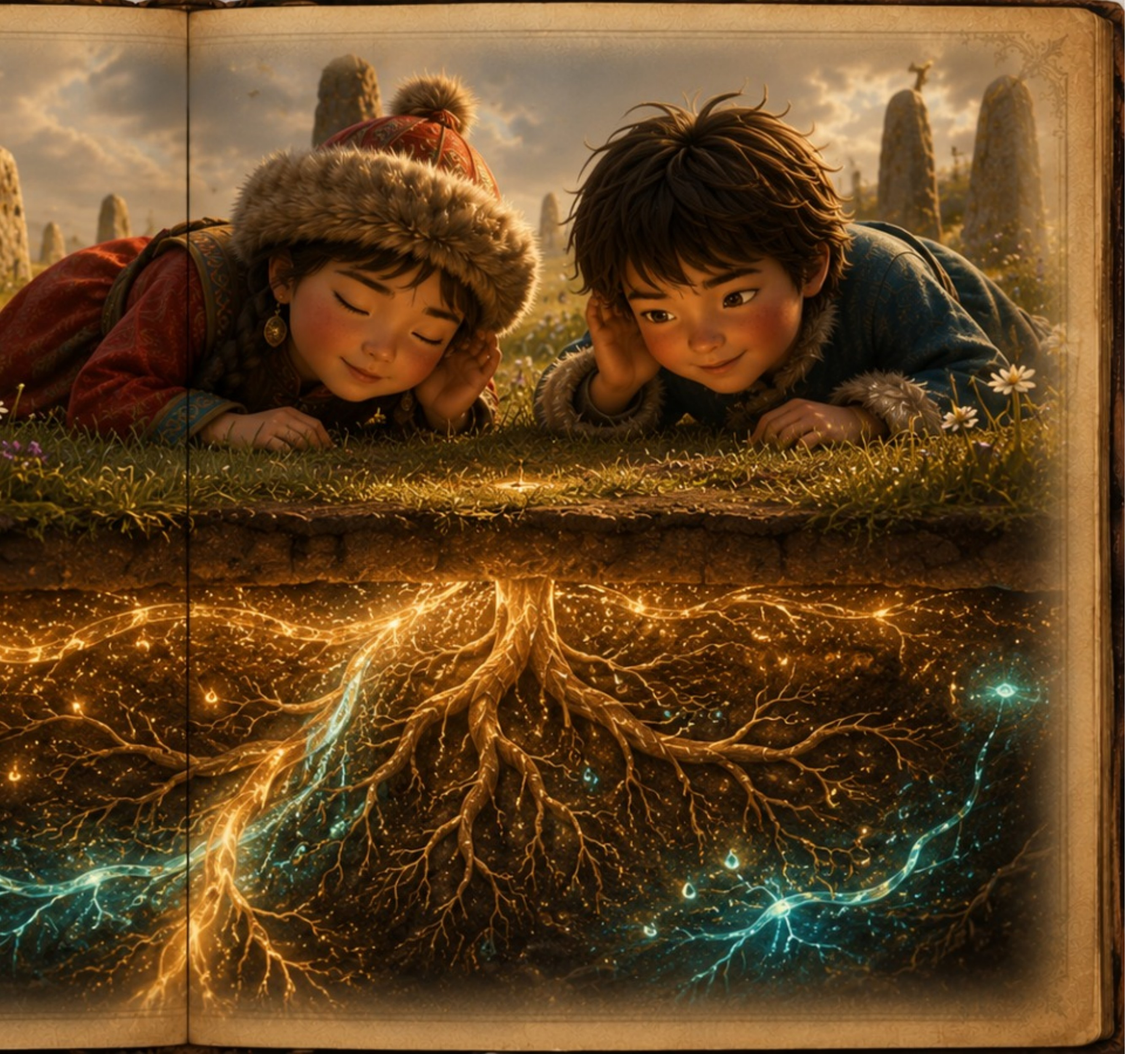
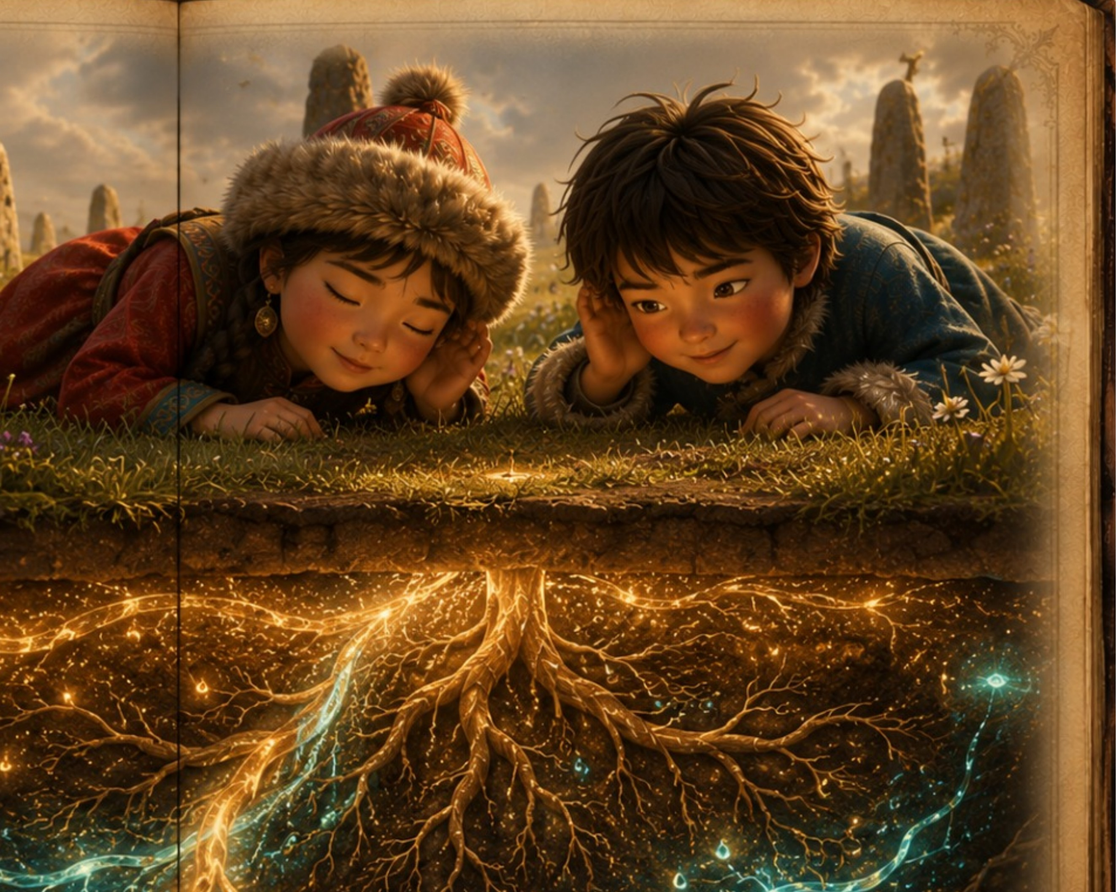
Fix storybook framing so character faces are never cropped or covered
The previous crop left illustrations portrait-shaped, so objectFit:"cover"
sliced away large vertical bands and pushed the framing right onto the
children's faces.

- New StorybookPage component shows the whole illustration (objectFit
  contain) over a blurred, darkened copy of itself filling the 16:9 sides,
  so nothing is ever cut off.
- Re-cropped pages to remove only the printed-text panel, trimming to a
  ~1.25 aspect that keeps full figures instead of a tight 16:9 slice.
- Reserved a caption safe-area beneath the illustration, and made
  AnimatedCaptions' bottom offset configurable (default preserves the
  existing vertical videos exactly) so captions sit below the artwork
  instead of over the characters' faces.
- Softened the Ken Burns drift for this project (max 4% scale) to suit the
  slower storybook pacing.

diff --git a/src/bozkirin-uyanisi/components/StorybookPage.tsx b/src/bozkirin-uyanisi/components/StorybookPage.tsx
@@ -1,0 +1,113 @@
+import React from 'react';
+import { AbsoluteFill, Img, interpolate, staticFile, useCurrentFrame } from 'remotion';
+import type { KenBurnsDirection } from '../../taidula-epic/segments';
+
+interface StorybookPageProps {
+  src: string;
+  direction: KenBurnsDirection;
+  durationInFrames: number;
+  /** Altyazı için alt kenarda boş bırakılacak güvenli alan (yükseklik oranı).
+   *  İllüstrasyon bu bandın üstüne yerleşir, böylece yazı hiçbir zaman
+   *  karakterlerin yüzünü kapatmaz. */
+  captionSafeRatio?: number;
+}
+
+/**
+ * Resimli kitap sayfası gösterimi — "contain + bulanık zemin" yaklaşımı.
+ *
+ * NEDEN: İllüstrasyonlar 1.25 en-boy oranında, kompozisyon ise 16:9 (1.78).
+ * objectFit:"cover" kullanılsa kare üstten/alttan agresif kırpılır ve
+ * karakterlerin yüzleri/gövdeleri kadraj dışında kalırdı. Bunun yerine
+ * illüstrasyon HER ZAMAN tam olarak (contain) gösteriliyor; 16:9'un yan
+ * boşlukları aynı görselin bulanıklaştırılmış/karartılmış bir kopyasıyla
+ * dolduruluyor. Böylece hiçbir karede yüz kesilmiyor.
+ *
+ * Ken Burns hareketi bilinçli olarak çok yumuşak (max %4 ölçek, %1.2 kaydırma)
+ * — çocuk kitabı temposuna uygun "nefes alan" bir his veriyor ama kadrajı
+ * bozup yüzleri kırpmıyor.
+ */
+const DRIFT_SCALE = 0.04;
+const DRIFT_SHIFT = 1.2; // yüzde
+
+export const StorybookPage: React.FC<StorybookPageProps> = ({
+  src,
+  direction,
+  durationInFrames,
+  captionSafeRatio = 0.2,
+}) => {
+  const frame = useCurrentFrame();
+  const progress = interpolate(frame, [0, durationInFrames], [0, 1], {
+    extrapolateLeft: 'clamp',
+    extrapolateRight: 'clamp',
+  });
+
+  let scale = 1;
+  let translateX = 0;
+  let translateY = 0;
+
+  switch (direction) {
+    case 'zoom-in':
+      scale = interpolate(progress, [0, 1], [1, 1 + DRIFT_SCALE]);
+      break;
+    case 'zoom-out':
+      scale = interpolate(progress, [0, 1], [1 + DRIFT_SCALE, 1]);
+      break;
+    case 'pan-left':
+      scale = 1 + DRIFT_SCALE / 2;
+      translateX = interpolate(progress, [0, 1], [DRIFT_SHIFT, -DRIFT_SHIFT]);
+      break;
+    case 'pan-right':
+      scale = 1 + DRIFT_SCALE / 2;
+      translateX = interpolate(progress, [0, 1], [-DRIFT_SHIFT, DRIFT_SHIFT]);
+      break;
+    case 'pan-up':
+      scale = 1 + DRIFT_SCALE / 2;
+      translateY = interpolate(progress, [0, 1], [DRIFT_SHIFT, -DRIFT_SHIFT]);
+      break;
+    case 'pan-down':
+      scale = 1 + DRIFT_SCALE / 2;
+      translateY = interpolate(progress, [0, 1], [-DRIFT_SHIFT, DRIFT_SHIFT]);
+      break;
+  }
+
+  const file = staticFile(src);
+
+  return (
+    <AbsoluteFill style={{ overflow: 'hidden', backgroundColor: '#0a0a08' }}>
+      {/* Yan boşlukları dolduran bulanık zemin */}
+      <AbsoluteFill>
+        <Img
+          src={file}
+          style={{
+            width: '100%',
+            height: '100%',
+            objectFit: 'cover',
+            filter: 'blur(48px) brightness(0.45) saturate(1.1)',
+            transform: 'scale(1.15)',
+          }}
+        />
+      </AbsoluteFill>
+
+      {/* İllüstrasyonun tamamı — hiçbir zaman kırpılmaz, altyazı bandının
+          üstünde kalacak şekilde yerleşir */}
+      <AbsoluteFill
+        style={{
+          justifyContent: 'flex-start',
+          alignItems: 'center',
+          bottom: `${captionSafeRatio * 100}%`,
+        }}
+      >
+        <Img
+          src={file}
+          style={{
+            width: '100%',
+            height: '100%',
+            objectFit: 'contain',
+            transform: `scale(${scale}) translate(${translateX}%, ${translateY}%)`,
+            transformOrigin: 'center center',
+          }}
+        />
+      </AbsoluteFill>
+    </AbsoluteFill>
+  );
+};

diff --git a/src/components/AnimatedCaptions.tsx b/src/components/AnimatedCaptions.tsx
@@ -76,7 +76,15 @@ const Word: React.FC<{ word: CaptionWord; fontSize: number }> = ({ word, fontSiz
   );
 };
 
-export const AnimatedCaptions: React.FC<{ cues: CaptionCue[] }> = ({ cues }) => {
+export const AnimatedCaptions: React.FC<{
+  cues: CaptionCue[];
+  /** Yazı bloğunun alt kenardan uzaklığı (yüksekliğin oranı olarak).
+   *  Varsayılan 0.13 — dikey Instagram/Reels videolarındaki "%10 yukarı"
+   *  konumu. Resimli kitap gibi görselin tüm kadrajı doldurduğu 16:9
+   *  yapımlarda daha alta (örn. 0.03) çekilerek yüzlerin üstünü kapatması
+   *  engellenebilir. */
+  bottomOffsetRatio?: number;
+}> = ({ cues, bottomOffsetRatio = 0.13 }) => {
   const frame = useCurrentFrame();
   const { width, height } = useVideoConfig();
 
@@ -107,7 +115,10 @@ export const AnimatedCaptions: React.FC<{ cues: CaptionCue[] }> = ({ cues }) => 
   // Yazı bloğu hem %20 büyüdüğü hem de %10 yukarı kaydığı için, altındaki
   // karartma/vignette gradyanı da orantılı olarak büyütüldü — aksi halde
   // büyümüş metnin üst kısmı gradyansız (düz video üzerinde) kalırdı.
-  const gradientHeight = height * (170 / 1080) * 1.2 + height * 0.1;
+  // (bottomOffsetRatio - 0.03) sayesinde varsayılan 0.13'te bu ifade tam olarak
+  // eski "+ height * 0.1" değerine eşit kalır — mevcut videoların görüntüsü
+  // değişmez, sadece offset değiştirildiğinde gradyan da onunla birlikte kayar.
+  const gradientHeight = height * (170 / 1080) * 1.2 + height * (bottomOffsetRatio - 0.03);
 
   const cueLocalIn = frame - active.startFrame;
   const cueLocalOut = frame - active.endFrame;
@@ -135,7 +146,7 @@ export const AnimatedCaptions: React.FC<{ cues: CaptionCue[] }> = ({ cues }) => 
           justifyContent: "flex-end",
           alignItems: "center",
           // Ekstra talep üzerine format %10 yukarı kaydırıldı (0.03 -> 0.13).
-          paddingBottom: height * 0.13,
+          paddingBottom: height * bottomOffsetRatio,
           opacity: blockOpacity,
         }}
       >

diff --git a/src/bozkirin-uyanisi/BozkirinUyanisiFilm.tsx b/src/bozkirin-uyanisi/BozkirinUyanisiFilm.tsx
@@ -1,6 +1,6 @@
 import React from 'react';
 import { AbsoluteFill, Audio, Sequence, interpolate, staticFile, useCurrentFrame } from 'remotion';
-import { ImageSegment } from '../taidula-epic/components/ImageSegment';
+import { StorybookPage } from './components/StorybookPage';
 import { AnimatedCaptions } from '../components/AnimatedCaptions';
 import { pages, CROSSFADE_FRAMES, TOTAL_FRAMES } from './pages';
 import { BOZKIRIN_UYANISI_CAPTIONS } from '../data/bozkirinUyanisiCaptions';
@@ -120,13 +120,13 @@ export const BozkirinUyanisiFilm: React.FC = () => {
         return (
           <AbsoluteFill key={page.id} style={{ opacity: pageOpacity }}>
             <Sequence from={page.startFrame} durationInFrames={duration}>
-              <ImageSegment src={page.src} direction={page.kenBurns} durationInFrames={duration} />
+              <StorybookPage src={page.src} direction={page.kenBurns} durationInFrames={duration} />
             </Sequence>
           </AbsoluteFill>
         );
       })}
 
-      <AnimatedCaptions cues={BOZKIRIN_UYANISI_CAPTIONS} />
+      <AnimatedCaptions cues={BOZKIRIN_UYANISI_CAPTIONS} bottomOffsetRatio={0.035} />
 
       <Audio src={staticFile(NARRATION_SRC)} volume={1} />
       <Audio src={staticFile(MUSIC_SRC)} volume={musicVolume} />
